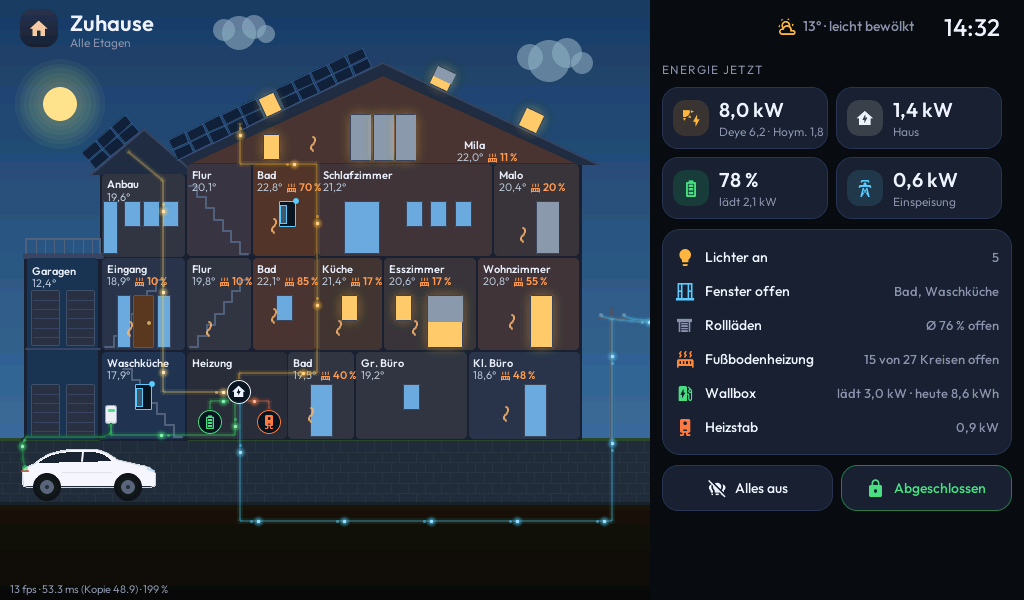
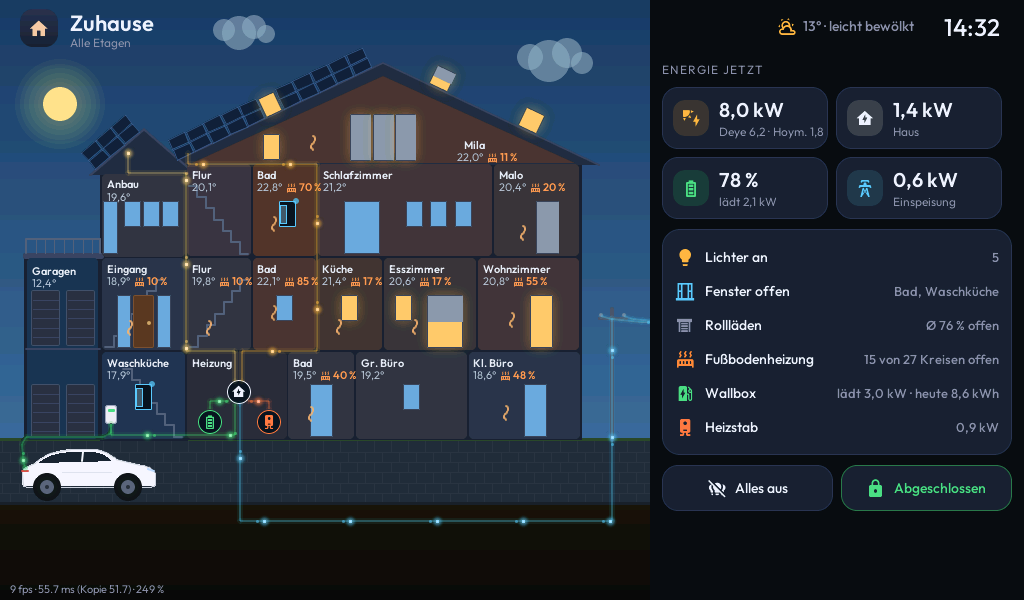
Energiefluss: Solarleitungen an Decken und in Wänden statt quer durch Räume (#3)
Deye kommt am Dachrand ins Haus und läuft im Keller unter der Decke; Hoymiles läuft unter der Anbaudecke und in der Wand zum Flur hinab. Beide gehen zuletzt senkrecht in die Zentrale.

Claude-Session: https://claude.ai/code/session_01DgtLp9KL3ghCu5CXX829wd

diff --git a/core/house.h b/core/house.h
@@ -1655,8 +1655,12 @@ inline void build() {
   }
 
   // Energiefluss (Mockup-Koordinaten)
-  make_flow("pv", {{232, 132}, {232, 176}, {314, 176}, {314, 398}, {230, 398}, {230, 405}}, AMBER);
-  make_flow("hoy", {{112, 162}, {150, 193}, {150, 418}, {217, 418}}, 0xFFD27A);
+  // Leitungen wie echte Installationen: an Decken und in Wänden, nie quer durch einen Raum.
+  // Deye: am Dachrand ins Haus, unter der Decke des Obergeschosses, in der Wand zwischen
+  // Bad und Schlafzimmer/Küche hinab, unter der Kellerdecke zur Zentrale, dann senkrecht hinein.
+  make_flow("pv", {{176, 164}, {176, 176}, {314, 176}, {314, 375}, {234, 375}, {234, 407}}, AMBER);
+  // Hoymiles: vom Anbaudach unter die Anbaudecke, in der Wand zum Flur hinab, unter der Kellerdecke zur Zentrale
+  make_flow("hoy", {{112, 162}, {112, 185}, {174, 185}, {174, 375}, {226, 375}, {226, 407}}, 0xFFD27A);
   make_flow("battery", {{220, 428}, {200, 428}, {200, 437}}, GREEN);
   make_flow("heater", {{240, 428}, {262, 428}, {262, 437}}, 0xFF7A45);
   make_flow("grid", {{628, 340}, {628, 556}, {231, 556}, {231, 431}}, PINK);
